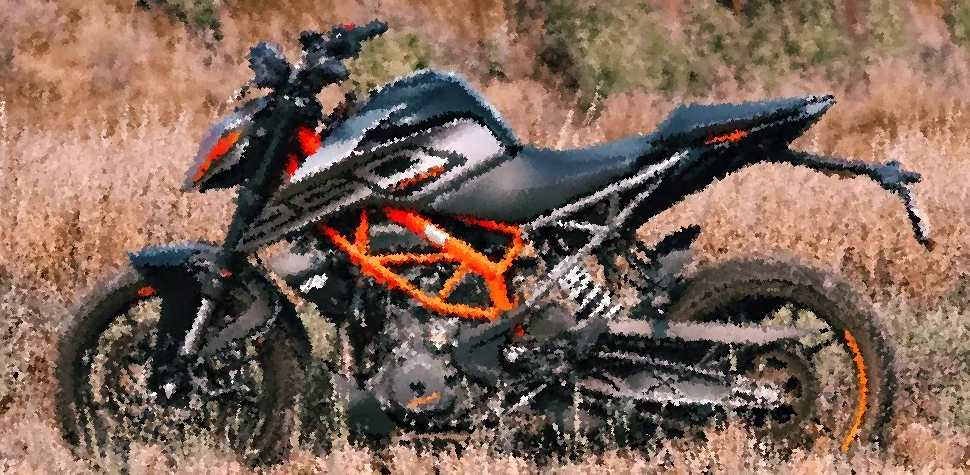
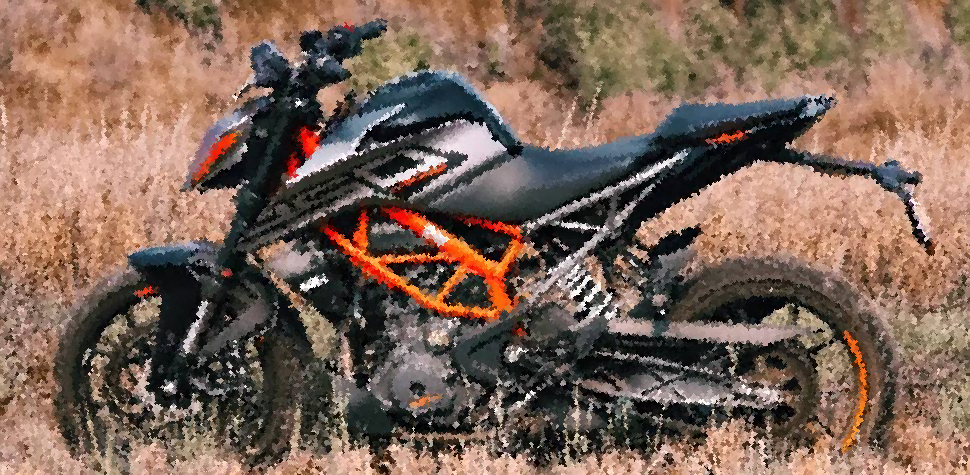
wip mu law table  compare

diff --git a/chapter2/question-2.7.py b/chapter2/question-2.7.py
@@ -95,8 +95,8 @@ class Im():
 
 im = Im("bike.jpg")
 # im.fillRandomPixels(100, (0, 0, 0, 255))
-# im.fillPercentage(99, (0, 0, 0, 255))
+# im.fillPercentage(50, (0, 0, 0, 255))
 # im.copyRandomNeighborLeft(3000)
-im.copyRandomNerestNeighbor(100)
+# im.copyRandomNerestNeighbor(100)
 im.displayImage("out.png")
 
